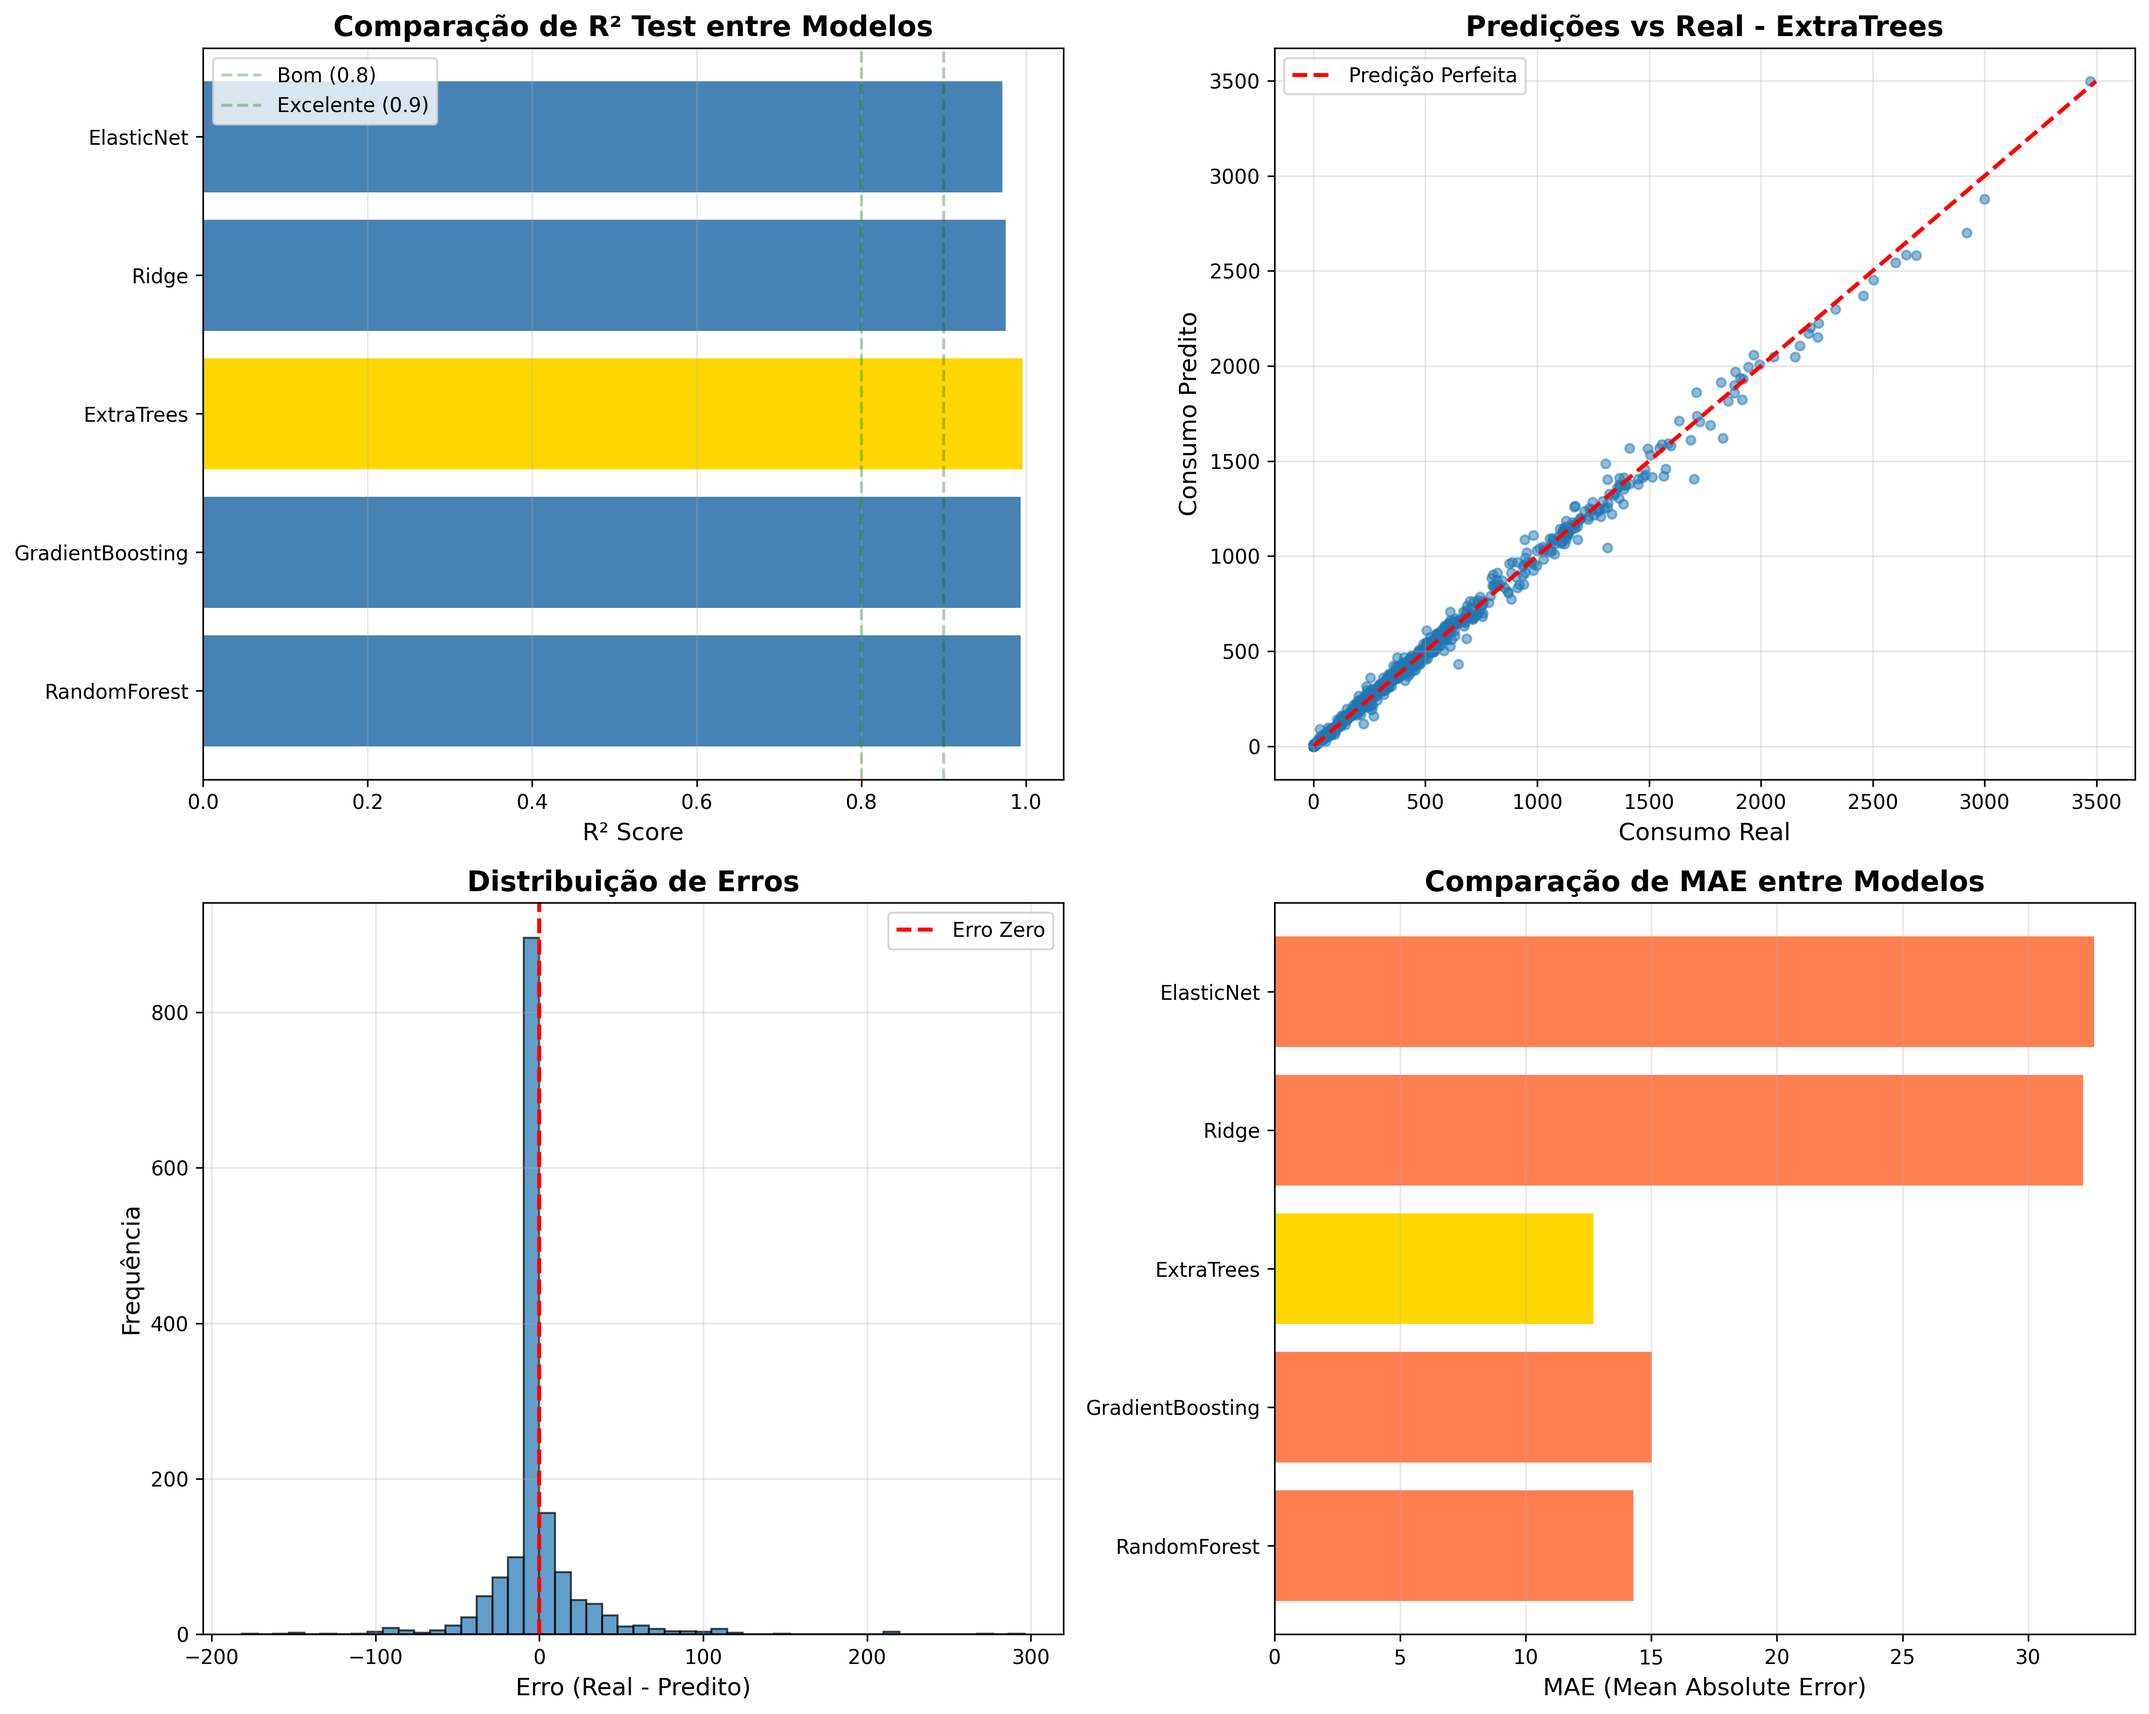
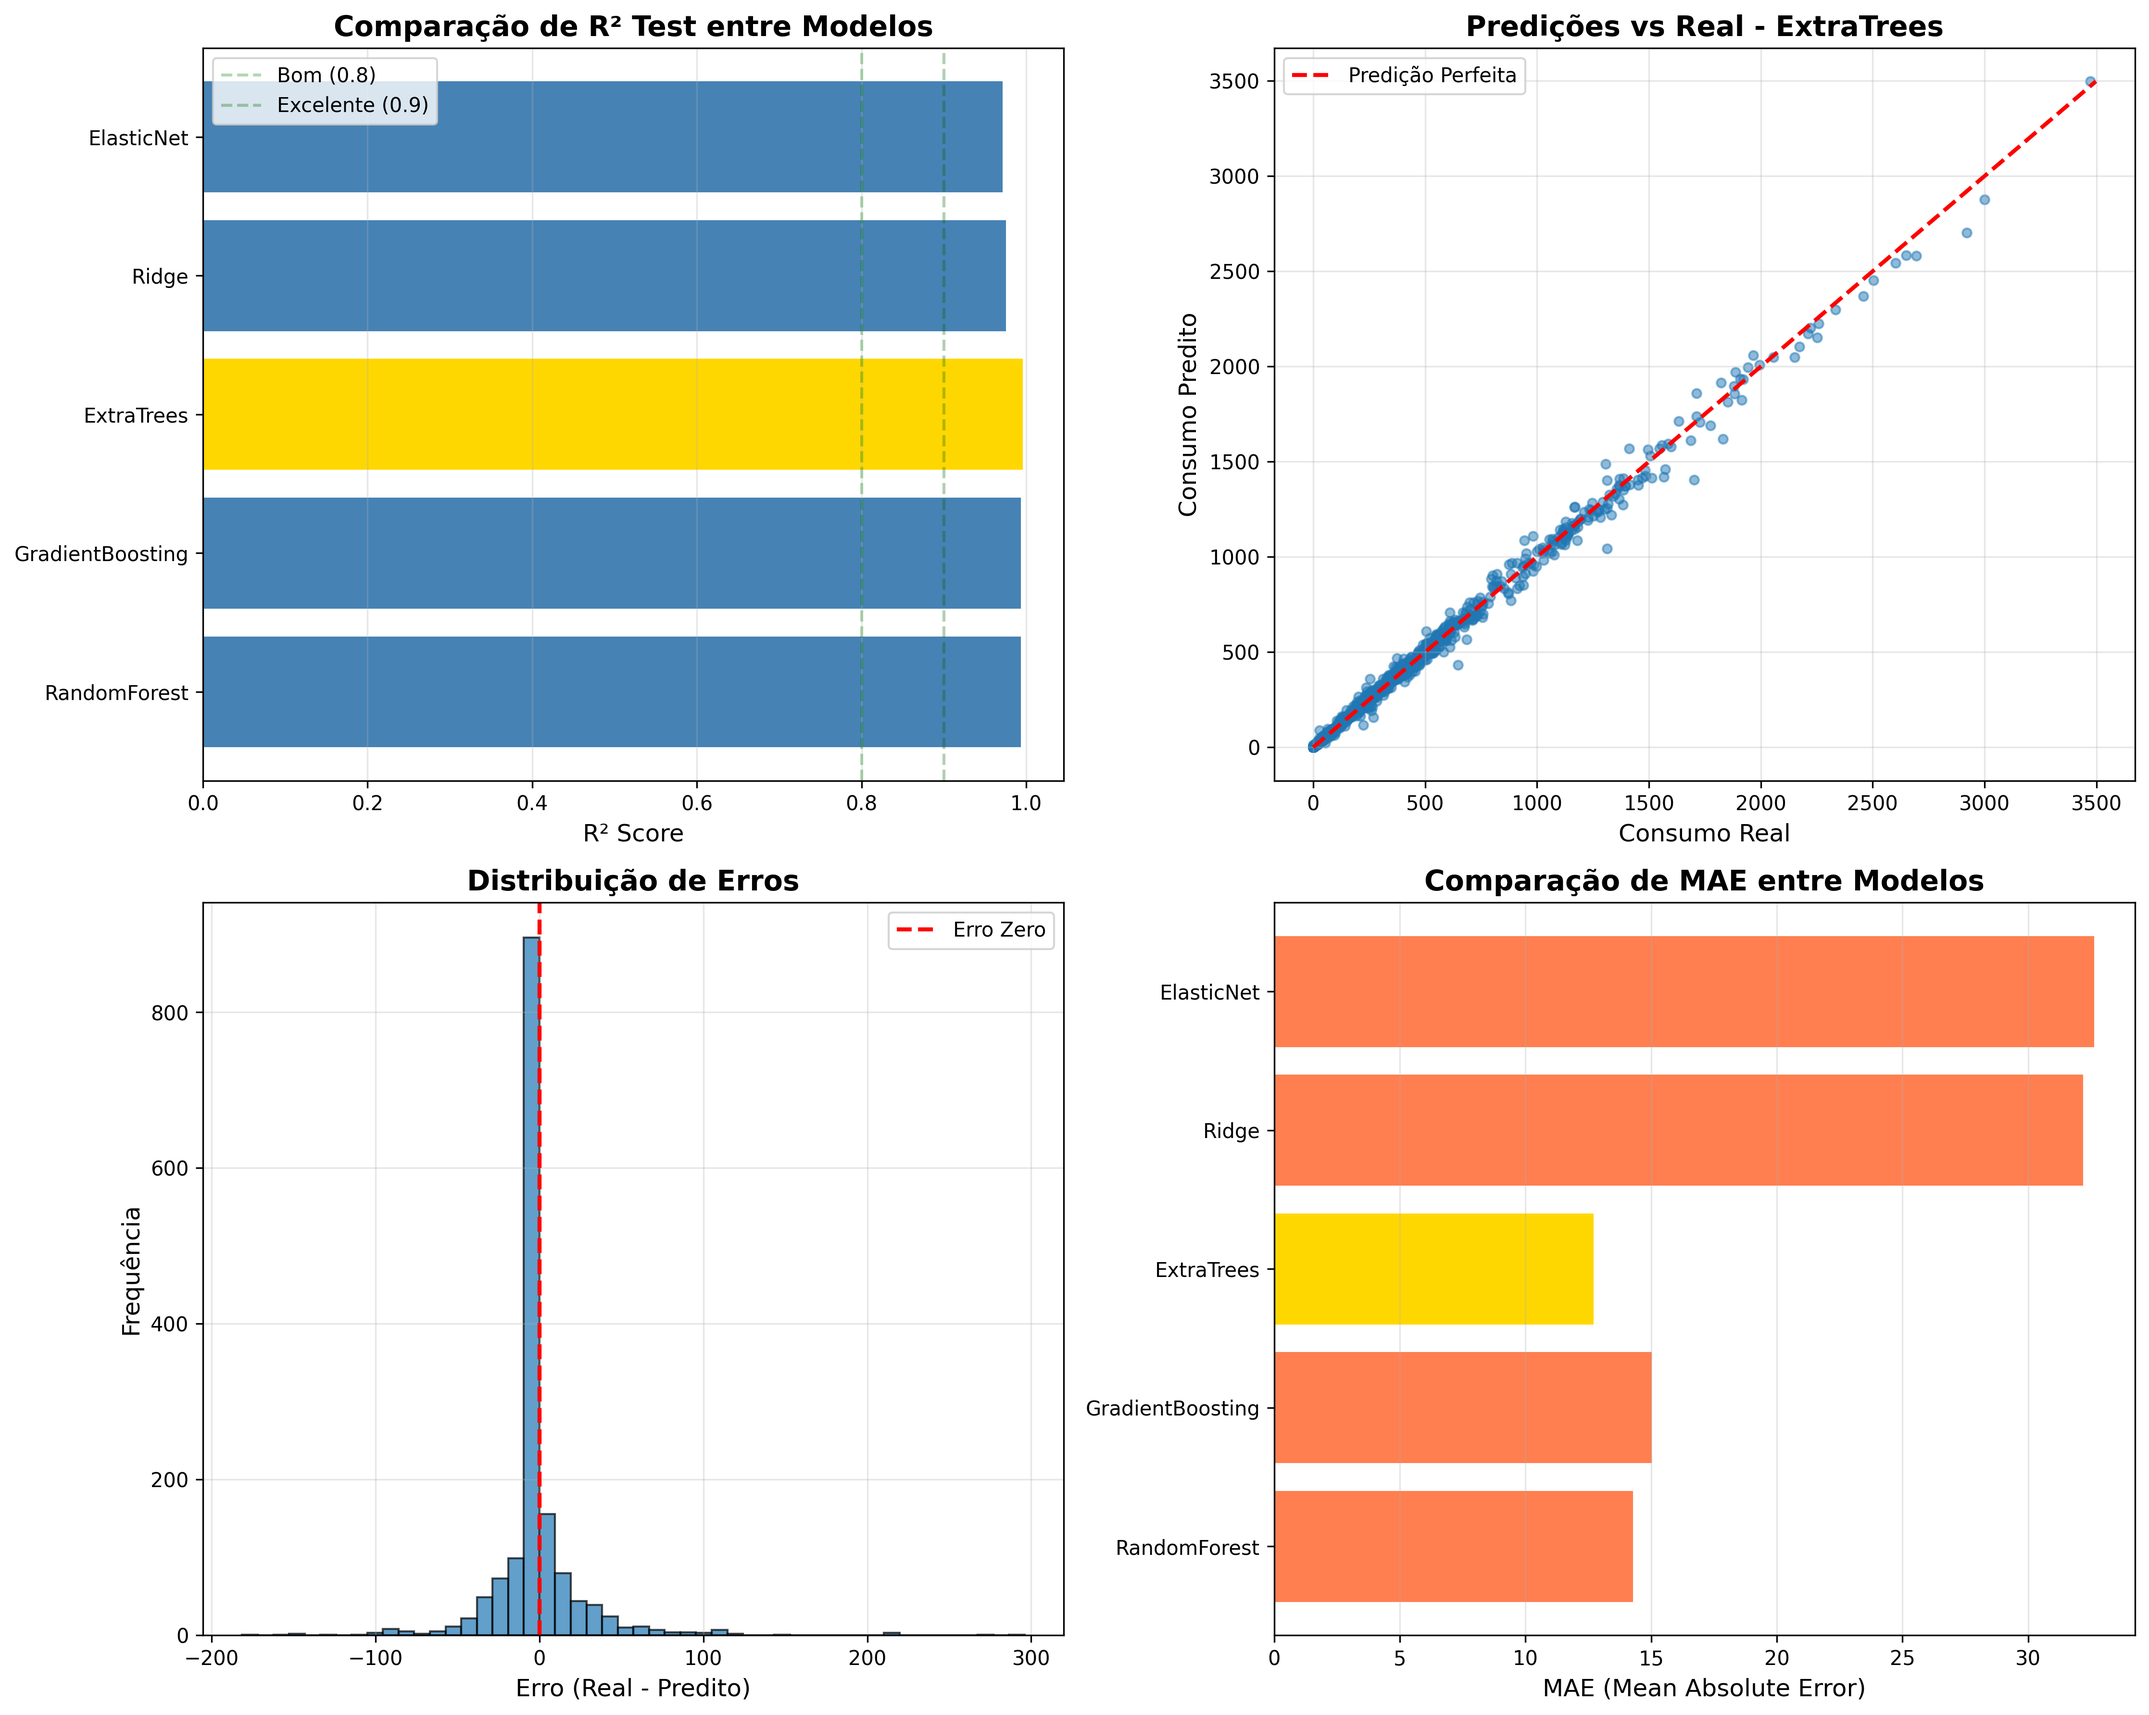
Add endpoint to retrieve all models' training visualization and update frontend to display it

diff --git a/frontend/src/pages/ModelMetrics.tsx b/frontend/src/pages/ModelMetrics.tsx
@@ -208,7 +208,28 @@ const ModelMetricsPage = () => {
           />
         </div>
         </Card>
+        <Card>
+            <CardHeader>
+              <CardHeader>
+              <CardTitle>Visualização dos Restantes Modelos</CardTitle>
+              </CardHeader>
+            <CardDescription>
+            <p className="text-muted-foreground">
+                Gráficos comparativos dos modelos testados
+            </p>
+            </CardDescription>
+            </CardHeader>
+        {/* Imagem dos modelos */}
+        <div className="flex justify-center">
+          <img
+            src="http://localhost:8000/model/training-image-all-models"
+            alt="Comparação dos Modelos"
+            className="rounded-lg border shadow-lg max-w-4xl w-full bg-white"
+            style={{ background: 'white' }}
+          />
+        </div>
 
+        </Card>
         {/* Interpretação das Métricas */}
         <Card>
           <CardHeader>

diff --git a/train_optimized_model.py b/train_optimized_model.py
@@ -16,6 +16,7 @@ import matplotlib.pyplot as plt
 import seaborn as sns
 from datetime import datetime
 import pickle
+import math
 
 warnings.filterwarnings('ignore')
 
@@ -320,46 +321,45 @@ class OptimizedMLTrainer:
         print(f"   R² Test: {self.training_results[self.best_model_name]['r2_test']:.4f}")
         print(f"   MAE Test: {self.training_results[self.best_model_name]['mae_test']:.2f}")
     def create_all_models_visualization(self, X_test_scaled, y_test):
-    import math
 
-    models = list(self.training_results.keys())
-    n_models = len(models)
-    cols = 2
-    rows = math.ceil(n_models / cols)
+        models = list(self.training_results.keys())
+        n_models = len(models)
+        cols = 2
+        rows = math.ceil(n_models / cols)
 
-    fig, axes = plt.subplots(rows, cols, figsize=(14, rows * 5))
-    axes = axes.flatten()
+        fig, axes = plt.subplots(rows, cols, figsize=(14, rows * 5))
+        axes = axes.flatten()
 
-    for i, model_name in enumerate(models):
-        ax = axes[i]
-        y_pred = self.training_results[model_name]['y_pred_test']
+        for i, model_name in enumerate(models):
+            ax = axes[i]
+            y_pred = self.training_results[model_name]['y_pred_test']
 
-        ax.scatter(y_test, y_pred, alpha=0.5, s=20)
-        max_val = max(y_test.max(), y_pred.max())
-        ax.plot([0, max_val], [0, max_val], 'r--')
+            ax.scatter(y_test, y_pred, alpha=0.5, s=20)
+            max_val = max(y_test.max(), y_pred.max())
+            ax.plot([0, max_val], [0, max_val], 'r--')
 
-        r2 = self.training_results[model_name]['r2_test']
-        mae = self.training_results[model_name]['mae_test']
+            r2 = self.training_results[model_name]['r2_test']
+            mae = self.training_results[model_name]['mae_test']
 
-        ax.set_title(
-            f"{model_name}\nR²={r2:.3f} | MAE={mae:.2f}",
-            fontsize=12,
-            fontweight='bold'
-        )
+            ax.set_title(
+                f"{model_name}\nR²={r2:.3f} | MAE={mae:.2f}",
+                fontsize=12,
+                fontweight='bold'
+            )
 
-        ax.set_xlabel("Consumo Real")
-        ax.set_ylabel("Consumo Predito")
-        ax.grid(alpha=0.3)
+            ax.set_xlabel("Consumo Real")
+            ax.set_ylabel("Consumo Previsto")
+            ax.grid(alpha=0.3)
 
-    # Remove subplots vazios
-    for j in range(i + 1, len(axes)):
-        fig.delaxes(axes[j])
+        # Remove subplots vazios
+        for j in range(i + 1, len(axes)):
+            fig.delaxes(axes[j])
 
-    plt.tight_layout()
-    plt.savefig("all_models_predictions.png", dpi=300, bbox_inches="tight")
-    plt.close()
+        plt.tight_layout()
+        plt.savefig("all_models_predictions.png", dpi=300, bbox_inches="tight")
+        plt.close()
 
-    print("✅ Gráfico comparativo salvo: all_models_predictions.png")
+        print("✅ Gráfico comparativo salvo: all_models_predictions.png")
 
     def create_visualizations(self, X_test_scaled, y_test):
         """Cria visualizações dos resultados"""

diff --git a/backend/main.py b/backend/main.py
@@ -771,6 +771,26 @@ async def retrain_model(background_tasks: BackgroundTasks):
     background_tasks.add_task(retrain)
     return {"message": "Modelo será retreinado em background"}
 
+@app.get("/model/training-image-all-models")
+async def get_all_training_image():
+    """
+    Retorna a imagem de visualização do treinamento do modelo
+    """
+    from fastapi.responses import FileResponse
+
+    image_path = Path(__file__).parent.parent / "all_models_predictions.png"
+
+    if not image_path.exists():
+        raise HTTPException(
+            status_code=404,
+            detail="Imagem de treinamento não encontrada. Execute train_optimized_model.py primeiro."
+        )
+
+    return FileResponse(
+        path=str(image_path),
+        media_type="image/png",
+        filename="all_models_predictions.png"
+    )
 @app.get("/model/training-image")
 async def get_training_image():
     """
